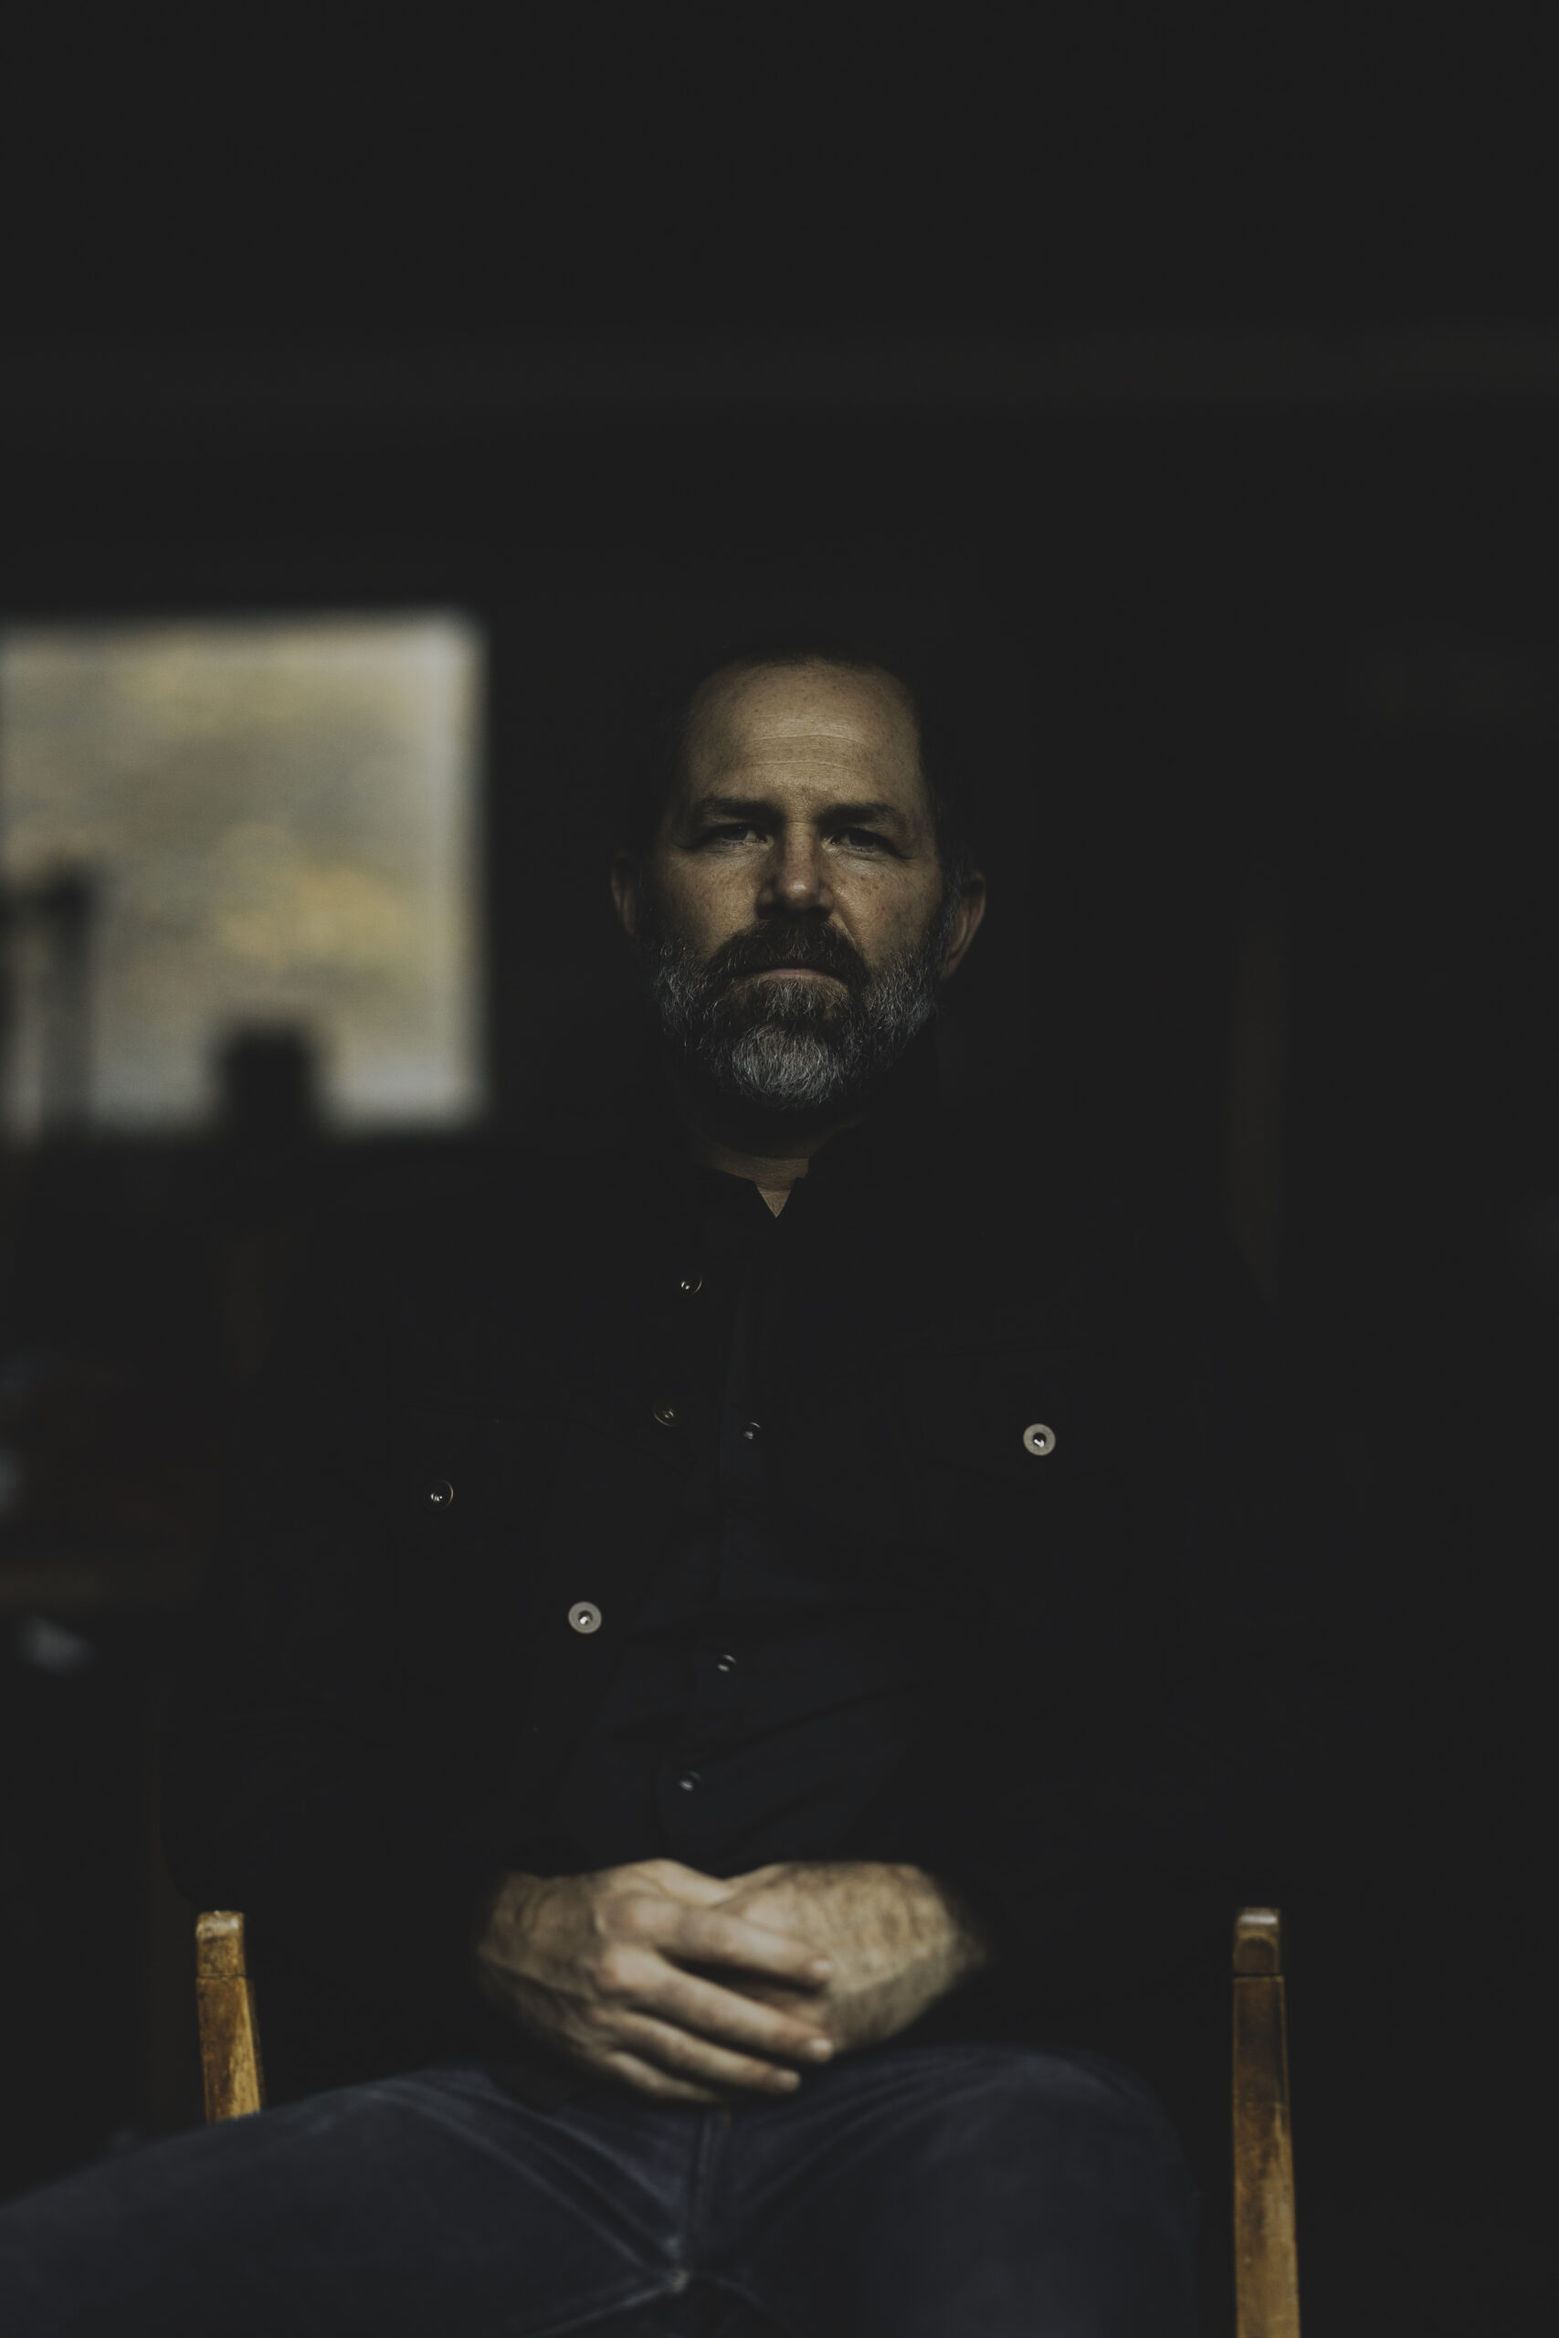
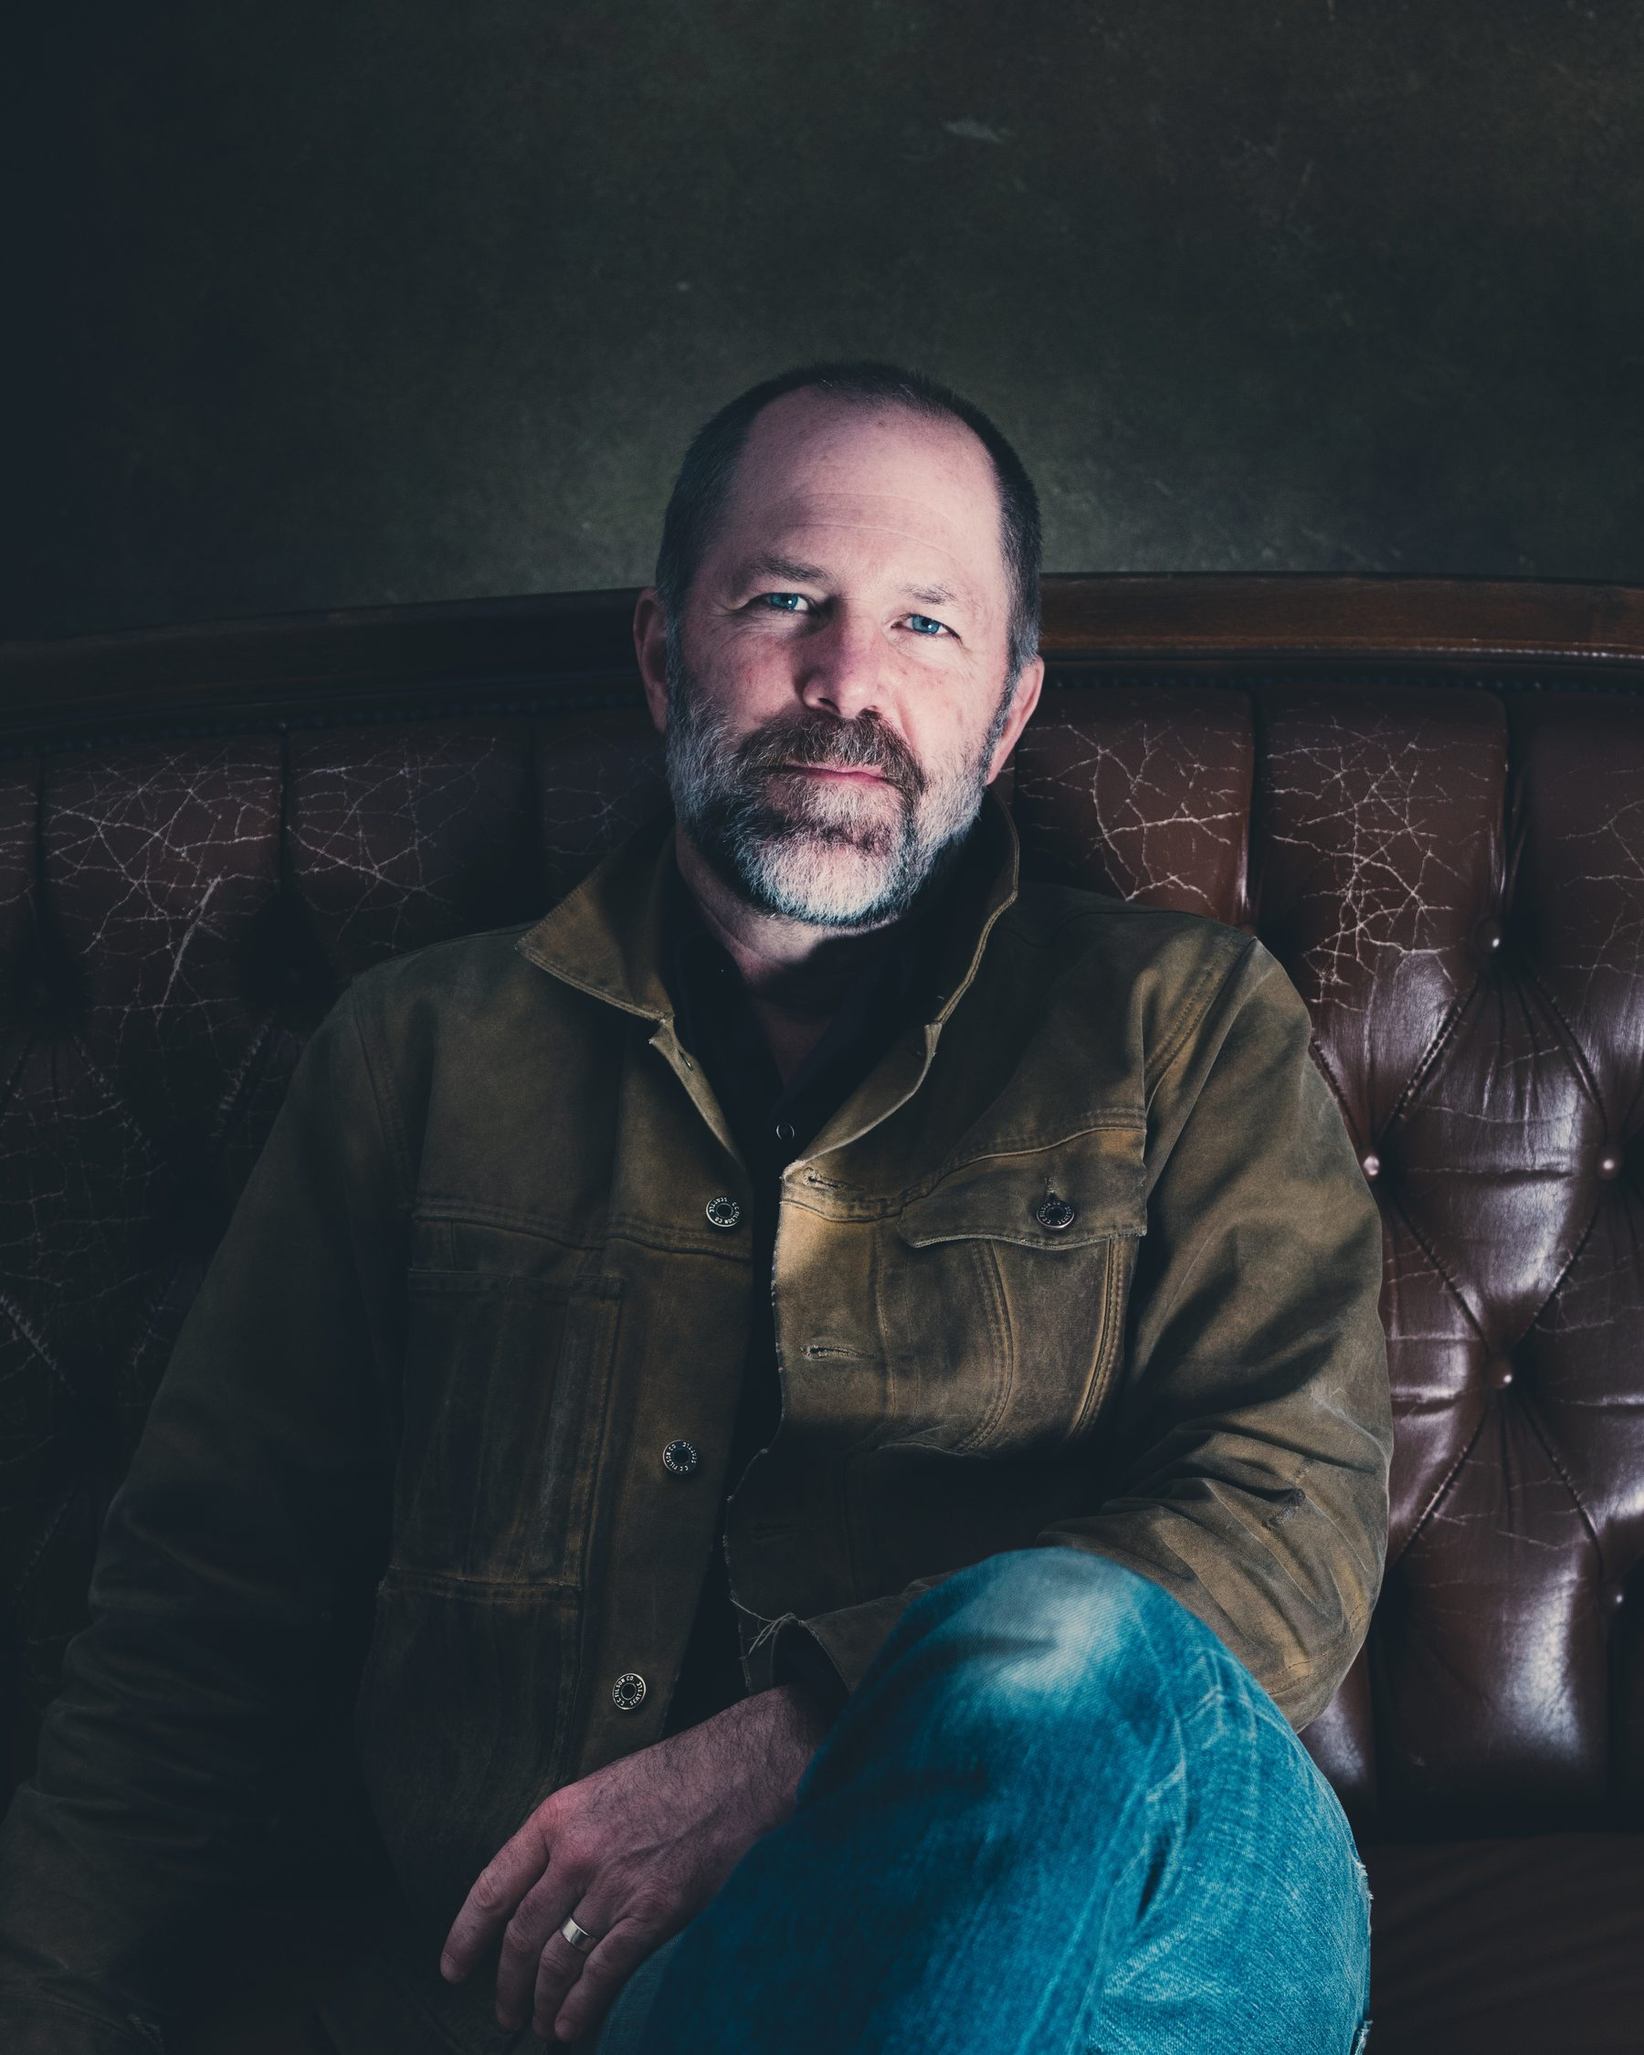
Update Foucault press photo and bio to agency-approved 2026 assets
Concerted Efforts sent a new promo pack on 2026-07-29 for the Universal
Fire tour, along with a management contact change.

The new press frame is a wide full-figure shot with his face 16% down,
which floats his head near the top of both the square artist card and the
4:5 hero. Cropped a 4:5 press frame on his face (50%/30%) for those, and
kept the full frame as -wide for the promo story card, which is landscape
and needs him to read as a figure. Previous portrait kept as -chair.

Bio and pull quotes now match the agency's approved copy: The New Yorker,
Uncut, and the Irish Times. The New York Times and NPR lines they replace
were not in any press kit we have.

diff --git a/src/data/artists.ts b/src/data/artists.ts
@@ -26,8 +26,8 @@ export const headliners: Artist[] = [
     slug: "jeffrey-foucault",
     year: [2026],
     hometown: "Native Midwest",
-    bio: "One of the most distinctive voices in American music — \"contemporary and timeless\" (The New York Times). Headlining the 2026 Invitational at The Matthews Opera House on Saturday, September 26.",
-    fullBio: "In two decades on the road, Jeffrey Foucault has become one of the most distinctive voices in American music, refining a sound instantly recognizable for its simplicity and emotional power. Across a string of critically acclaimed studio albums he has built a brick-and-mortar international touring career and a devoted following — one that includes luminaries like Van Dyke Parks, Greil Marcus, and Don Henley. His latest album, The Universal Fire (Fluff & Gravy, 2024), his first of entirely new material since 2018, was cut live in one room: both a working wake for his late friend and drummer Billy Conway and a meditation on the nature of beauty, artifact, and loss.",
+    bio: "One of the most distinctive voices in American music — \"stark, literate songs that are as wide open as the landscape of his native Midwest\" (The New Yorker). Headlining the 2026 Invitational at The Matthews Opera House on Saturday, September 26.",
+    fullBio: "In two decades on the road, Jeffrey Foucault has become one of the most distinctive voices in American music, refining a sound instantly recognizable for its simplicity and emotional power. Across a string of critically acclaimed studio albums — \"stark, literate songs that are as wide open as the landscape of his native Midwest\" (The New Yorker), \"beat-up troubadour folk whittled to dolorous perfection\" (Uncut) — he has built a brick-and-mortar international touring career and a devoted following, one that includes luminaries like Van Dyke Parks, Greil Marcus, and Don Henley. The Universal Fire (Fluff & Gravy, 2024), his first album of entirely new material since 2018, was cut live in one room with his all-star band augmented by members of Calexico and Bon Iver: both a working wake for his late friend and drummer Billy Conway and a meditation on the nature of beauty, artifact, and loss.",
     instrument: "Guitar / Vocals",
     signatureSong: "The Universal Fire",
     photo: "/photos/jeffrey-foucault.jpg",

diff --git a/src/app/invitational/page.tsx b/src/app/invitational/page.tsx
@@ -81,10 +81,11 @@ export default function InvitationalPage() {
                 simplicity and emotional power.
               </p>
               <p className="text-lg text-cream/80 leading-relaxed mb-8">
-                &ldquo;Contemporary and timeless,&rdquo; wrote The New York Times.
-                &ldquo;Pure songwriter,&rdquo; said NPR. &ldquo;His songs are
-                simple and powerful.&rdquo; It&apos;s exactly the kind of voice the
-                Invitational was built to celebrate.
+                &ldquo;Stark, literate songs that are as wide open as the
+                landscape of his native Midwest,&rdquo; wrote The New Yorker.
+                &ldquo;Songwriting brilliance,&rdquo; said the Irish Times.
+                It&apos;s exactly the kind of voice the Invitational was built to
+                celebrate.
               </p>
               <Link
                 href="/artists"
